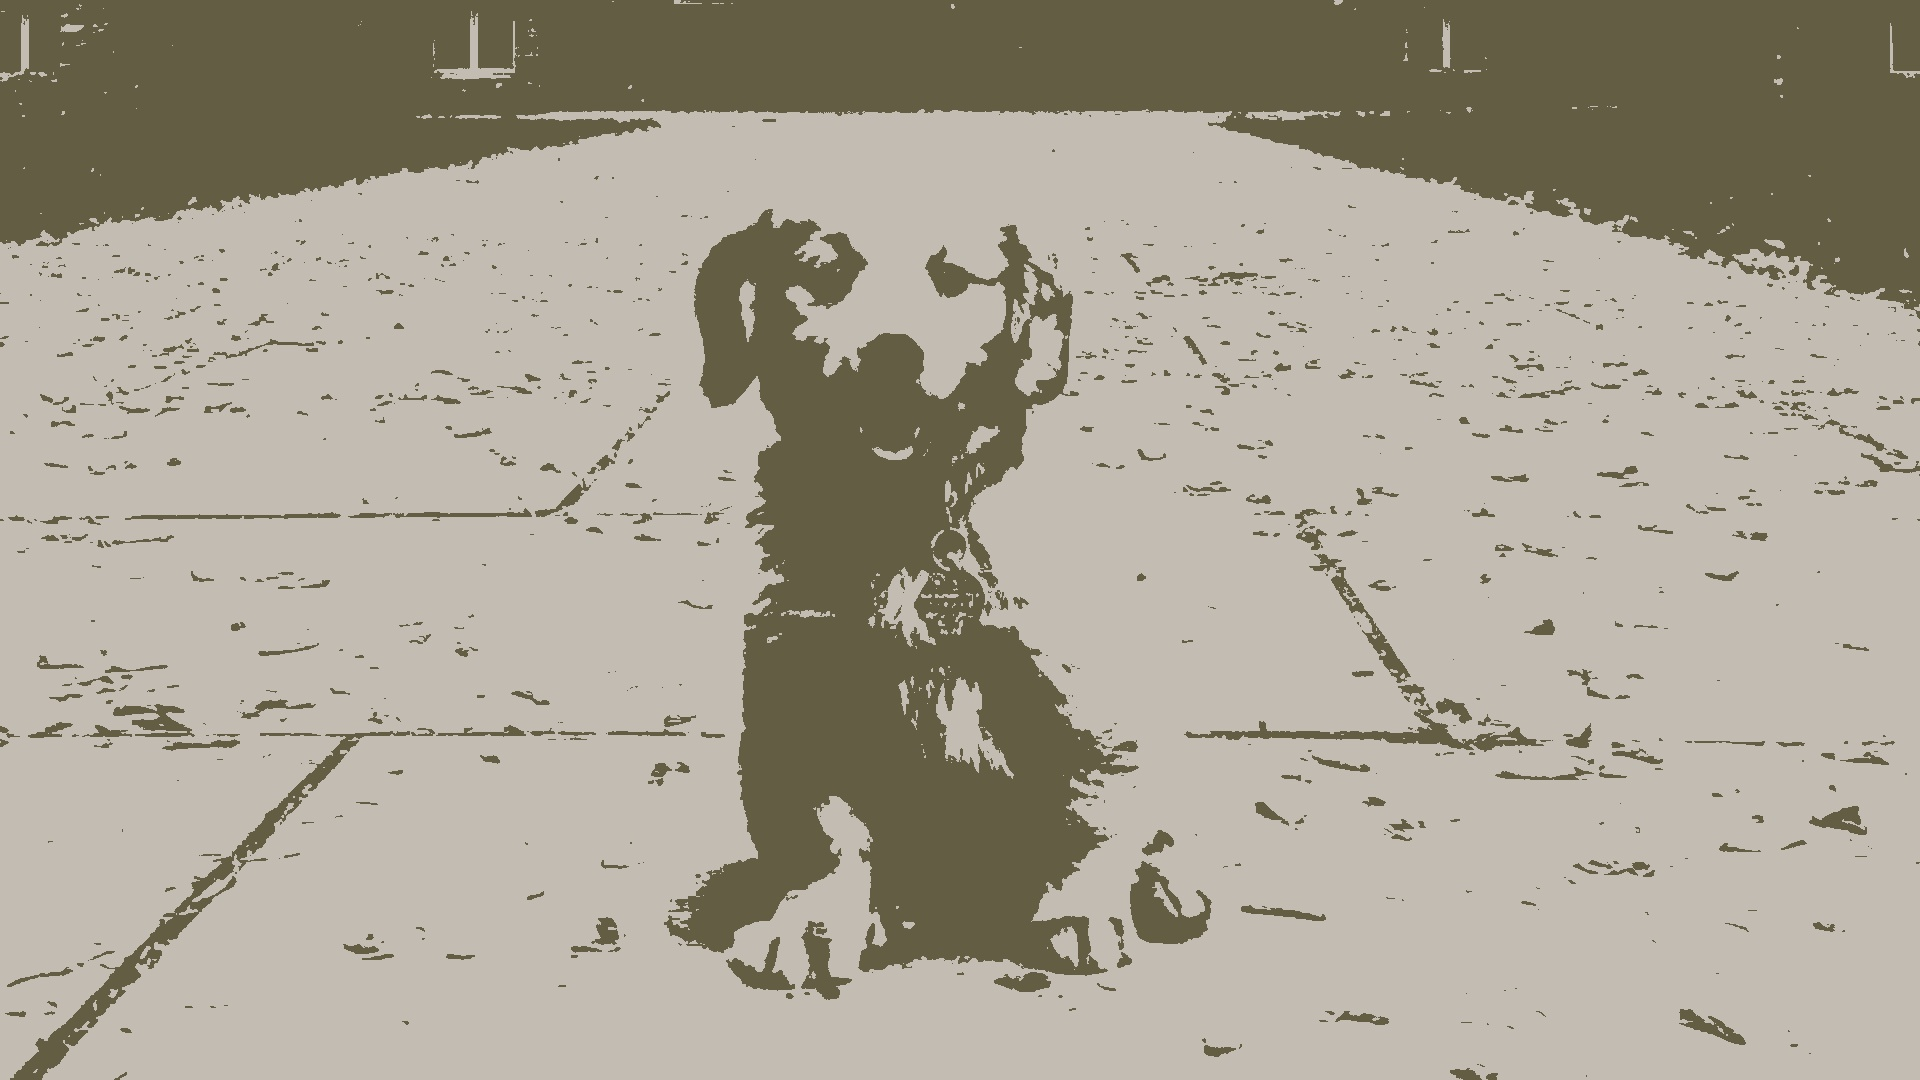
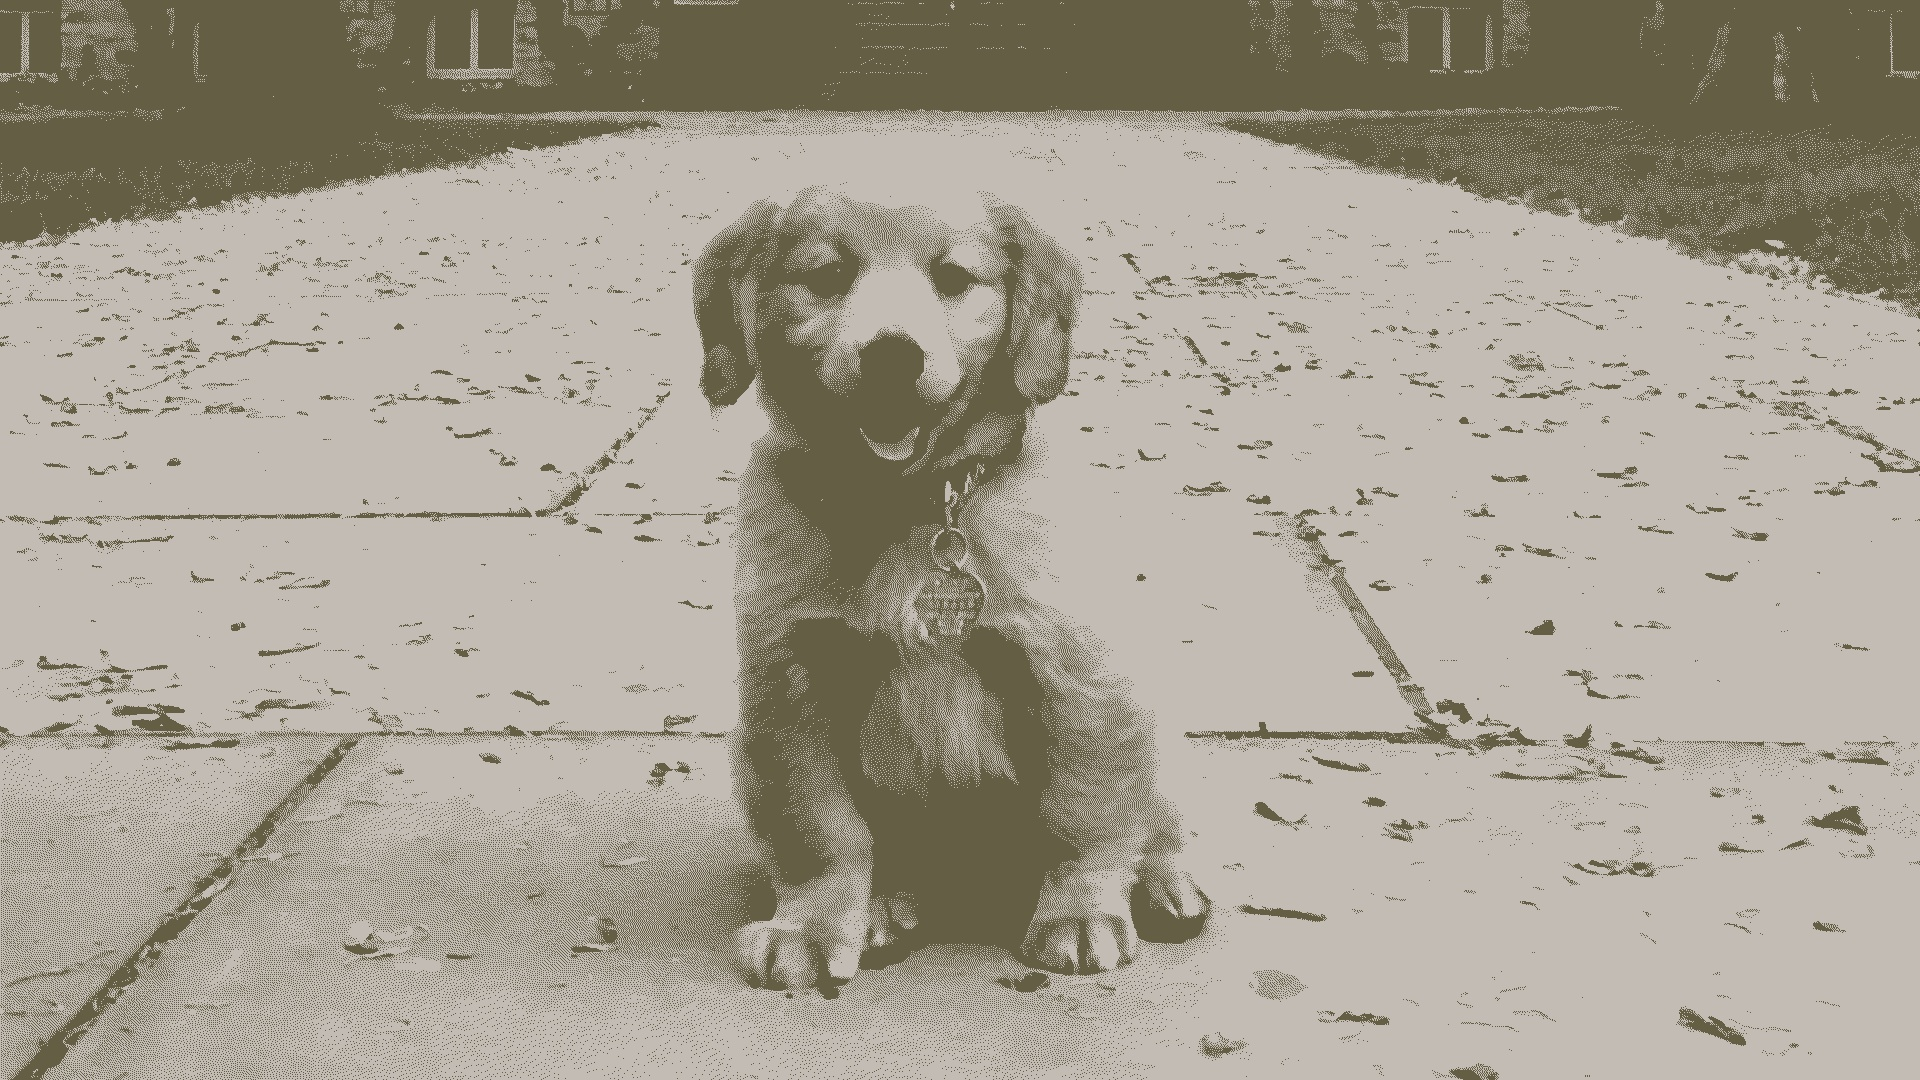
fix

diff --git a/SecondLab.cpp b/SecondLab.cpp
@@ -43,17 +43,16 @@ vector<int> getError(const Vec3b color, const Vec3b newColor) {
 
 
 Mat FloydSteinberg(const Mat& image, const vector<Vec3b> newPalette) {
-    Mat result = Mat::zeros(image.size(), CV_8UC3);
-    Mat tempImage = image.clone();
+    Mat result = image.clone();
 
     float errorRatio[2][3] = {
-        {0, 0, 7 / 16},
-        {3 / 16, 5 / 16, 1 / 16},
+        {0, 0, 7.0f / 16.0f},
+        {3.0f / 16.0f, 5.0f / 16.0f, 1.0f / 16.0f},
     };
 
-    for (int y = 0; y < image.rows; y++) {
-        for (int x = 0; x < image.cols; x++) {
-            Vec3b color = tempImage.at<Vec3b>(y, x);
+    for (int y = 0; y < result.rows; y++) {
+        for (int x = 0; x < result.cols; x++) {
+            Vec3b color = result.at<Vec3b>(y, x);
             Vec3b newColor = getNearColor(newPalette, color);
             vector<int> error = getError(color, newColor);
 
@@ -61,11 +60,11 @@ Mat FloydSteinberg(const Mat& image, const vector<Vec3b> newPalette) {
                 for (int i = 0; i <= 2; ++i) {
                     int neighbourY = y + j;
                     int neighbourX = x + i - 1;
-                    if (neighbourY >= 0 && neighbourY < image.rows && neighbourX >= 0 && neighbourX < image.cols) {
+                    if (neighbourY >= 0 && neighbourY < result.rows && neighbourX >= 0 && neighbourX < result.cols) {
 
-                        Vec3b neighbourColor = tempImage.at<Vec3b>(neighbourY, neighbourX);
+                        Vec3b neighbourColor = result.at<Vec3b>(neighbourY, neighbourX);
                         for (int c = 0; c < 3; c++) {
-                            tempImage.at<Vec3b>(neighbourY, neighbourX)[c] = saturate_cast<uchar>(neighbourColor[c] + error[c] * errorRatio[j][i]);
+                            result.at<Vec3b>(neighbourY, neighbourX)[c] = saturate_cast<uchar>(neighbourColor[c] + error[c] * errorRatio[j][i]);
                         }
 
                     }
@@ -80,6 +79,15 @@ Mat FloydSteinberg(const Mat& image, const vector<Vec3b> newPalette) {
     return result;
 }
 
+Mat resizeImage(const Mat& image) {
+    Mat smallImage;
+    int width = 100;
+    int height = static_cast<int>(static_cast<float>(image.rows) / image.cols * width);
+    resize(image, smallImage, Size(width, height));
+
+    return smallImage;
+}
+
 
 int main() {
 
@@ -88,13 +96,12 @@ int main() {
     for (int j = 0; j < 2; ++j) {
         Mat image = loadImage(pictures[j] + ".jpg");
 
-        Mat smallImage;
-        resize(image, smallImage, Size(100, 100));
+        Mat smallImage = resizeImage(image);
 
         vector<Vec3b> imagePalette = getPaletteImage(smallImage);
 
         for (int n = 1; n <= 4; n++) {
-            int k = pow(2, n);
+            int k = 1 << n;
 
             vector<Vec3b> newPalette = kMeans(imagePalette, k);
 

diff --git a/kmean.cpp b/kmean.cpp
@@ -3,8 +3,10 @@
 using namespace std;
 using namespace cv;
 
+const int MAX_ITERATIONS = 500;
+
 double distance(const Vec3b& a, const Vec3b& b) {
-    return sqrt(pow(a[0] - b[0], 2) + pow(a[1] - b[1], 2) + pow(a[2] - b[2], 2));
+    return (a[0] - b[0])*(a[0] - b[0]) + (a[1] - b[1])*(a[1] - b[1]) + (a[2] - b[2])*(a[2] - b[2]);
 }
 
 Vec3b getNearColor(const vector<Vec3b>& palette, const Vec3b& color) {
@@ -43,6 +45,7 @@ vector<Vec3b> kMeans(const vector<Vec3b>& palette, int k) {
 
     vector<int> labels(palette.size());
     bool changed;
+    int iterations = 0;
 
     do {
         changed = false;
@@ -76,7 +79,9 @@ vector<Vec3b> kMeans(const vector<Vec3b>& palette, int k) {
             }
         }
 
-    } while (changed);
+        iterations++;
+
+    } while (changed && iterations < MAX_ITERATIONS);
 
     return centroids;
 }
